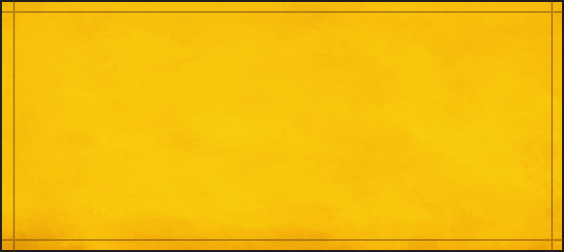
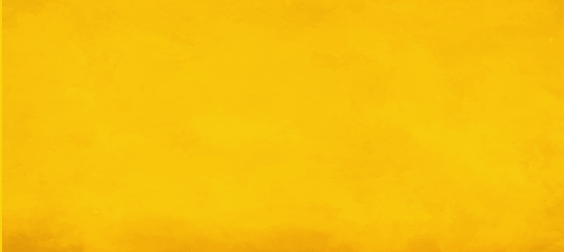
c

Changed region(s): [[0.0, 0.0, 1.0, 1.0]]

diff --git a/_src/index.html b/_src/index.html
@@ -71,7 +71,7 @@
         <div class="top-company_content js-bounce-trigger">
           <div class="l-inner">
             <div class="top-company_text">
-              <div id="company" class="c-hashtag">#PROLOGUE</div>
+              <div id="company" class="c-hashtag js-bounce-target">#PROLOGUE</div>
               <h2 class="c-ttl js-bounce-target">COMPANY</h2>
               <h3 class="c-lead js-letter js-bounce-target">会社案内</h3>
               <div class="top-company_image js-zoom01 js-bounce-target">
@@ -116,15 +116,24 @@
                   <a href="#">
                     <h3 class="item-ttl">事業内容</h3>
                     <p class="c-btn c-btn_border">VIEW MORE</p>
+                    <div class="c-borderBg c-borderBg--small"><span></span><span></span><span></span><span></span></div>
                   </a>
                 </li>
                 <li class="item">
                   <a href="#">
                     <h3 class="item-ttl">仕事の面白さ</h3>
                     <p class="c-btn c-btn_border">VIEW MORE</p>
+                    <div class="c-borderBg c-borderBg--small"><span></span><span></span><span></span><span></span></div>
                   </a>
                 </li>
               </ul>
+            </div>
+          </div>
+          <div class="top-business_sub splide">
+            <div class="splide__track">
+              <div class="splide__list">
+                <figure class="splide__slide"><img src="assets/img/top/ttl_02.svg" alt="QUALITY-ONE"></figure>
+              </div>
             </div>
           </div>
         </div>
@@ -236,6 +245,7 @@
                     <figure><img src="assets/img/top/img_program_01.png" alt=""></figure>
                   </div>
                   <div class="item-text">
+                    <div class="c-borderBg c-borderBg--small"><span></span><span></span><span></span><span></span></div>
                     <h3 class="item-ttl">半日体験・同乗見学</h3>
                     <div class="item-btn c-btn c-btn_border">VIEW MORE</div>
                   </div>
@@ -247,6 +257,7 @@
                     <figure><img src="assets/img/top/img_program_02.png" alt=""></figure>
                   </div>
                   <div class="item-text">
+                    <div class="c-borderBg c-borderBg--small"><span></span><span></span><span></span><span></span></div>
                     <h3 class="item-ttl">研修期間</h3>
                     <div class="item-btn c-btn c-btn_border">VIEW MORE</div>
                   </div>
@@ -258,6 +269,7 @@
                     <figure><img src="assets/img/top/img_program_03.png" alt=""></figure>
                   </div>
                   <div class="item-text">
+                    <div class="c-borderBg c-borderBg--small"><span></span><span></span><span></span><span></span></div>
                     <h3 class="item-ttl">入社後の流れ</h3>
                     <div class="item-btn c-btn c-btn_border">VIEW MORE</div>
                   </div>

diff --git a/_src/assets/js/common.js b/_src/assets/js/common.js
@@ -326,19 +326,39 @@ $('.js-letter').each(function() {
 
 /* TOP CULTURE
 ********************************************** */
-const img0 = document.querySelector(".js-hoverImg0");
-const img1 = document.querySelector(".js-hoverImg1");
-const link0 = document.querySelector(".js-hoverLink0");
-const link1 = document.querySelector(".js-hoverLink1");
-link0.addEventListener("mouseover", () => {
-  img0.classList.add("is-hovered");
-  img1.classList.remove("is-hovered");
-});
+if (($(".js-hoverImg0").length > 0) && ($(".js-hoverImg1").length > 0)) {
+  const img0 = document.querySelector(".js-hoverImg0");
+  const img1 = document.querySelector(".js-hoverImg1");
+  const link0 = document.querySelector(".js-hoverLink0");
+  const link1 = document.querySelector(".js-hoverLink1");
+  link0.addEventListener("mouseover", () => {
+    img0.classList.add("is-hovered");
+    img1.classList.remove("is-hovered");
+  });
 
-link1.addEventListener("mouseover", () => {
-  img0.classList.remove("is-hovered");
-  img1.classList.add("is-hovered");
-});
+  link1.addEventListener("mouseover", () => {
+    img0.classList.remove("is-hovered");
+    img1.classList.add("is-hovered");
+  });
+}
+
+/* top business
+********************************************** */
+if ($(".top-business_sub").length > 0) {
+  const splide01 = new Splide('.top-business_sub', {
+    // type: "loop",
+    autoWidth: true,
+    arrows: false,
+    pagination: false,
+    drag: false,
+    autoScroll: {
+      autoStart: true,
+      speed: 0.75,
+      pauseOnHover: false,
+      pauseOnFocus: false,
+    }
+  }).mount(window.splide.Extensions);
+}
 
 
 /* INVIEW

diff --git a/_src/assets/css/object/project/_top.scss b/_src/assets/css/object/project/_top.scss
@@ -529,6 +529,7 @@
         width: 100%;
         height: 12.6rem;
         background: url('../img/top/bg_btn_business_01.png') no-repeat center / cover;
+        position: relative;
         &:hover {
           background-image: url('../img/top/bg_btn_business_01_over.png');
           color: #fff;
@@ -550,6 +551,17 @@
       .c-btn {
         pointer-events: none;
       }
+    }
+  }
+  &_sub {
+    width: 145rem;
+    height: 5rem;
+    position: absolute;
+    bottom: 3.6rem;
+    left: -3rem;
+    .splide__track {
+      transform: rotate(-11.05deg);
+      // transform: matrix(0.98,-0.19,0.19,0.98,0,0);
     }
   }
 }
@@ -1106,12 +1118,12 @@
       background: url('../img/top/bg_btn_business_01.png') no-repeat center / cover;
       position: absolute;
       bottom: 0;
-      left: 50%;
-      transform: translateX(-50%);
+      left: calc(50% - 14rem);
       display: flex;
       flex-direction: column;
       justify-content: center;
       padding: 3.5rem;
+      border: 1px solid #222222;
       transition: all .3s ease-in-out;
     }
     .item-ttl {

diff --git a/_src/assets/css/object/component/_background.scss b/_src/assets/css/object/component/_background.scss
@@ -4,10 +4,16 @@
   // height: 100%;
   // top: 0;
   // left: 0;
-  opacity: .4;
+  position: absolute;
+  width: 100%;
+  height: 100%;
+  top: 0;
+  left: 0;
+  border: 1px solid #222;
   span {
     background: #643617;
     position: absolute;
+    opacity: .4;
     &:nth-child(1),
     &:nth-child(3) {
       width: 100%;
@@ -31,6 +37,22 @@
     }
     &:nth-child(4) {
       left: .8rem;
+    }
+  }
+  &--small {
+    span {
+      &:nth-child(1) {
+        top: .5rem;
+      }
+      &:nth-child(2) {
+        right: .5rem;
+      }
+      &:nth-child(3) {
+        bottom: .5rem;
+      }
+      &:nth-child(4) {
+        left: .5rem;
+      }
     }
   }
 }

diff --git a/_gulp/bundle.js b/_gulp/bundle.js
@@ -13,7 +13,7 @@ const jsLibs = [
   `${app.scripts}/_libs/gsap.min.js`,
   `${app.scripts}/_libs/ScrollTrigger.min.js`,
   `${app.scripts}/_libs/splide.min.js`,
-  // `${app.scripts}/_libs/splide-extension-auto-scroll.min.js`,
+  `${app.scripts}/_libs/splide-extension-auto-scroll.min.js`,
   // `${app.scripts}/_libs/swiper-bundle.min.js`,
   `${app.scripts}/_libs/jquery.validationEngine.min.js`,
 ];

diff --git a/_src/assets/css/object/project/_program.scss b/_src/assets/css/object/project/_program.scss
@@ -111,7 +111,6 @@
     min-height: 52.7rem;
     margin-left: auto;
     background: url('../img/program/bg_04.png') no-repeat center / cover;
-    border: 1px solid #593134;
     padding: 4.7rem 2.1rem 4.8rem 2.6rem;
     position: relative;
 

diff --git a/_src/assets/css/object/component/_heading.scss b/_src/assets/css/object/component/_heading.scss
@@ -33,7 +33,7 @@
   font-weight: 700;
   -webkit-background-clip: text;
   background-clip: text;
-  background-image: url('image.jpg');
+  background-image: url('../img/bg_ttl.png');
 	color: transparent;
 }
 
